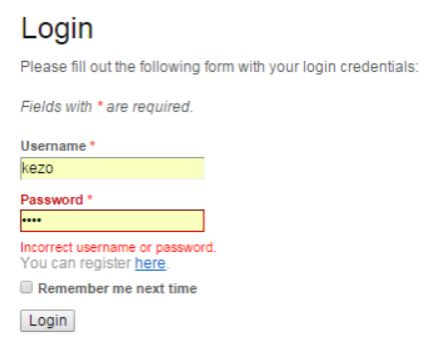
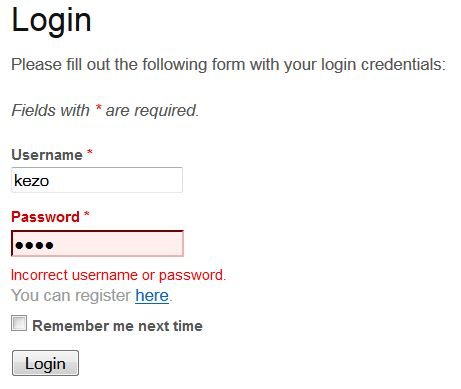
about_v4

Changed region(s): [[0.0, 0.3677, 0.5057, 0.9805], [0.0, 0.0, 0.9817, 0.2145], [0.0297, 0.2451, 0.4462, 0.337]]

diff --git a/webroot/protected/views/site/pages/about.php b/webroot/protected/views/site/pages/about.php
@@ -20,18 +20,17 @@ h1 {
 	<p align="justify">
 		 
 <?php print 
-"Regisztráció<br>
+"<u>Regisztráció</u><br>
 <br>
 A felület lehetőséget ad új felhasználóként regisztrálni a rendszerbe. Ehhez felhasználó nevet, emailcímet, valamint jelszót kell megadni, majd a “Register” gombra kattintva a felhasználói profil létrejön a rendszerben.<br>
-<br>
-<br>"?>
+"?>
 
 <p align="center">
 	<img src="/images/about_1.jpg" alt="" >
 </p>
 
 <?php print
-"Login<br>
+"<u>Login</u><br>
 <br>
 A Login felület a felhasználók beléptetését szolgálja a rendszerbe. Csak előzetesen regisztrált felhasználóknak van módja a MathEd rendszerbe belépni, a regisztráció során megadott felhasználónév-jelszó párossal. <br>
 <br>";?>
@@ -39,8 +38,9 @@ A Login felület a felhasználók beléptetését szolgálja a rendszerbe. Csak 
 	<img src="/images/about_2.jpg" alt="" >
 </p>
 <?php print"
-A rendszer jelzi, ha a felhasználónév, vagy a jelszó nem megfelelő.<br>
 <br>
+<br>
+<center>A rendszer jelzi, ha a felhasználónév, vagy a jelszó nem megfelelő.</center><br>
 ";?>
 
 <p align="center">
@@ -50,44 +50,43 @@ A rendszer jelzi, ha a felhasználónév, vagy a jelszó nem megfelelő.<br>
 <?php print"
 <br>
 <br>
-Editor<br>
-Dokumentumtár<br>
+<u>Editor</u> - Dokumentumtár<br>
+<br>
     A Dokumentumtár lehetőséget ad a korábban eltárolt dokumentumok megnyitására -a kiválasztott dokumentummal egy sorban lévő “Edit” gomb segítségével-, valamint új dokumentum hozzáadására, a “Create new” gomb segítségével. A rendszerbe belépett felhasználó csak az általa létrehozott dokumentumokat látja megjelenni a listában.<br>
 <br>";?>
 
 <p align="center">
-	<img src="/images/about_4.jpg" alt="" >
+	<img src="/images/about_4.jpg" alt="" width="80%" length="80%">
 </p>
 
 <?php print"
-Szerkesztő felület<br>
-A szerkesztő ablak három fő részre oszlik: <br>
-Bal oldalon, zölddel jelölten maga a forráskód bevitelére, szerkesztésére szolgáló felület található.<br>
-Jobb oldalon, pirossal keretezve az előnézet helyezkedik el.<br>
-Az sárgával jelölt területen a kommentálásra szolgáló beviteli mező, valamint a korábbi kommentek megjelenítésére szolgáló felület helyezkedik el.<br>
-<br>";?>
+<u>Editor</u> - Szerkesztő felület<br>
+<br>A szerkesztő ablak három fő részre oszlik: <br>
+- Bal oldalon, zölddel jelölten maga a forráskód bevitelére, szerkesztésére szolgáló felület található.<br>
+- Jobb oldalon, pirossal keretezve az előnézet helyezkedik el.<br>
+- Az sárgával jelölt területen a kommentálásra szolgáló beviteli mező, valamint a korábbi kommentek megjelenítésére szolgáló felület helyezkedik el.<br>
+";?>
 
 <p align="center">
-	<img src="/images/about_5.jpg" alt="" >
+	<img src="/images/about_5.jpg" alt="" width="80%" length="80%">
 </p>
 
 <?php print"
-<br>Előnézet
+<u>Editor</u> - Előnézet<br>
 <br>A dokumentum előnézetét az Editor ablak felső részén elhelyezkedő “Save & Preview” gomb segítségével lehet frissíteni. Ekkor a rendszer a forráskód változásait is menti.
-<br>
-<br>";?>
+<br><br>";?>
 
 <p align="center">
-	<img src="/images/about_6.jpg" alt="" >
+	<img src="/images/about_6.jpg" alt="" width="80%" length="80%">
 </p>
 
 <?php print"
-Comment felület<br>
-A kommentek írására, megjelenítésére szolgáló eszköz a felhasználóknak nyújthat segítséget azzal, hogy a megosztott dokumentumok készítése során egymás munkáját interaktívan tudják segíteni. A felület alsó részén szövegbeviteli mezőbe írható egy új komment, feljebb a korábbi megjegyzések olvashatók, időbélyegzővel, valamint a kommentelő felhasználónevével ellátva.<br>
+<u>Editor</u> - Comment felület <br>
+<br>A kommentek írására, megjelenítésére szolgáló eszköz a felhasználóknak nyújthat segítséget azzal, hogy a megosztott dokumentumok készítése során egymás munkáját interaktívan tudják segíteni. A felület alsó részén szövegbeviteli mezőbe írható egy új komment, feljebb a korábbi megjegyzések olvashatók, időbélyegzővel, valamint a kommentelő felhasználónevével ellátva.<br>
 ";?>
 	</p>
 </div>
 
 <p align="center">
-	<img src="/images/about_7.jpg" alt="" >
+	<img src="/images/about_7.jpg" alt="" width="80%" length="80%">
 </p>
